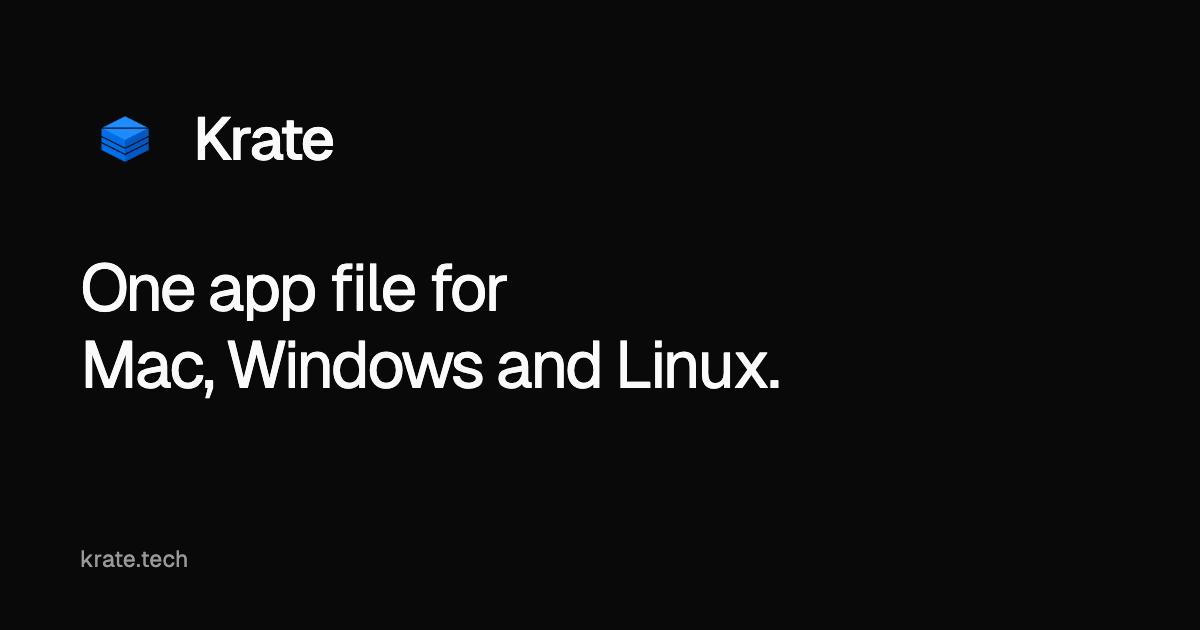
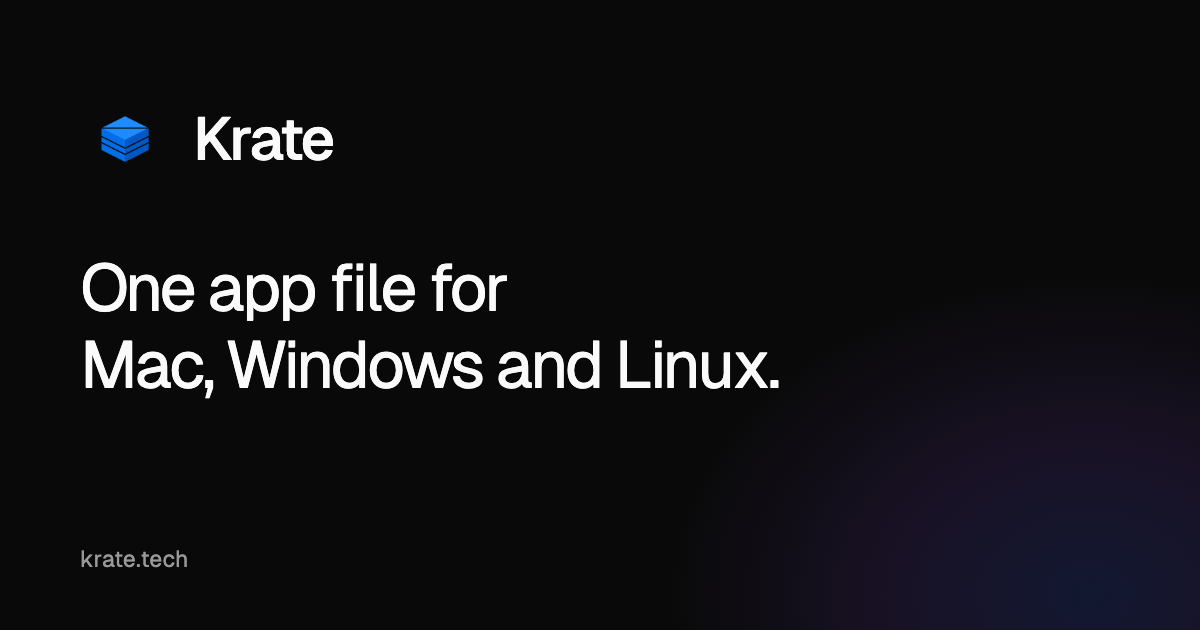
Add a subtle corner gradient

Changed region(s): [[0.7092, 0.6635, 1.0, 1.0]]

diff --git a/docs/social/preview.html b/docs/social/preview.html
@@ -11,7 +11,8 @@
     * { box-sizing: border-box; }
     html, body { width: 1200px; height: 630px; margin: 0; overflow: hidden; }
     body { font-family: Geist, sans-serif; color: #fafafa; background: #090909; }
-    main { width: 100%; height: 100%; padding: 94px 80px; position: relative; }
+    main { width: 100%; height: 100%; padding: 94px 80px; position: relative; isolation: isolate; }
+    main::before { content: ''; position: absolute; z-index: -1; right: -120px; bottom: -140px; width: 660px; height: 500px; background: radial-gradient(ellipse at 65% 65%, #304cbe38 0%, #683db02b 33%, transparent 70%); }
     header { display: flex; align-items: center; gap: 23px; font-size: 60px; font-weight: 500; letter-spacing: -.045em; }
     header img { width: 90px; height: 90px; object-fit: contain; }
     h1 { font-size: 66px; font-weight: 400; line-height: 1.17; letter-spacing: -.045em; margin: 66px 0 0; }

diff --git a/scripts/test-landing-assets.py b/scripts/test-landing-assets.py
@@ -81,7 +81,7 @@ class LandingAssets(unittest.TestCase):
         for retired in ("12 stars", "No installer", "tens of kilobytes", "cannot touch anything"):
             self.assertNotIn(retired, source)
         self.assertNotIn("<script", source)
-        for decoration in ("gradient(", "box-shadow", "class=\"file\""):
+        for decoration in ("box-shadow", "class=\"file\""):
             self.assertNotIn(decoration, source)
 
     def test_lossless_derivatives_keep_dimensions_and_reduce_bytes(self):
